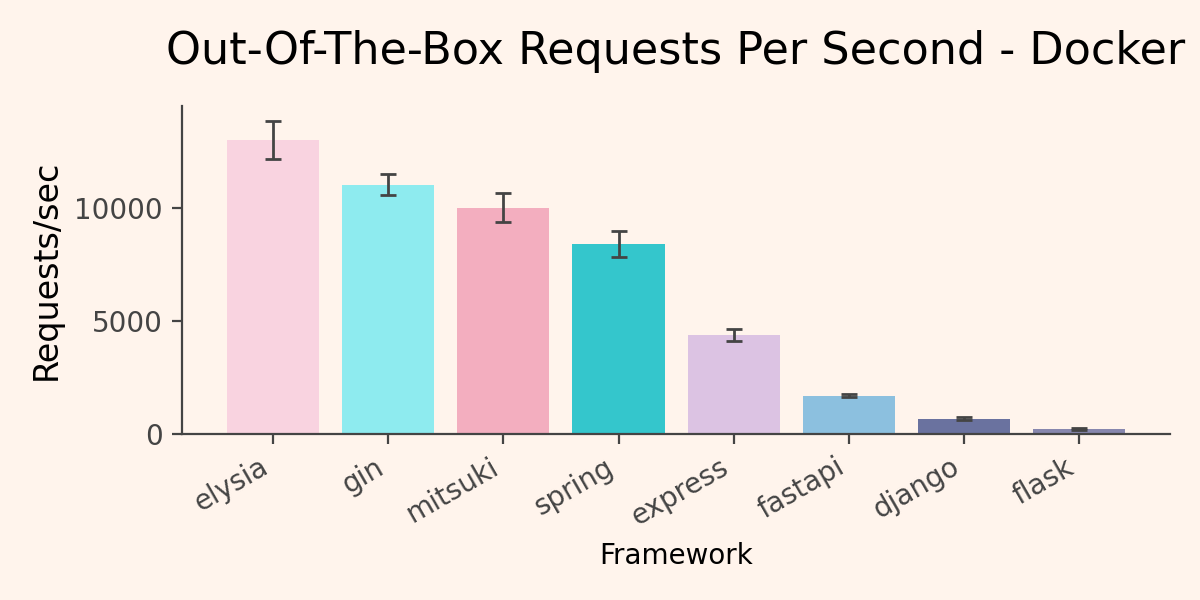
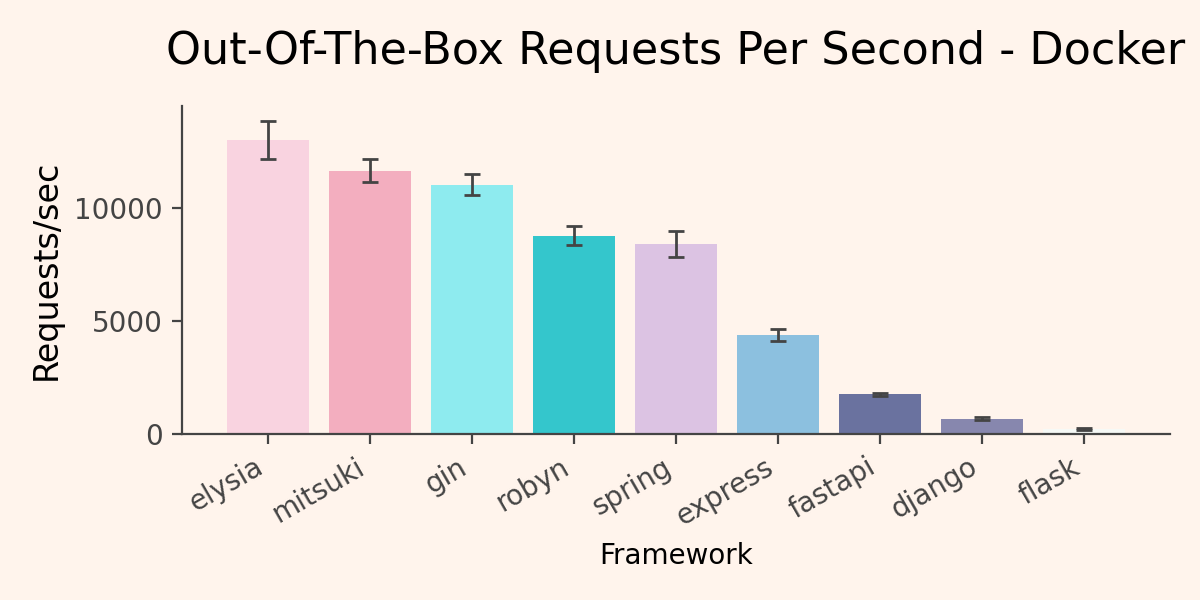
❀[BENCHMARKS] Add Robyn

diff --git a/benchmarks/generate_report.py b/benchmarks/generate_report.py
@@ -125,6 +125,7 @@ def process_results(results_dir, local=False):
         "express",
         "spring",
         "gin",
+        "robyn"
     ]
     results = []
     suffix = "-local" if local else ""

diff --git a/benchmarks/README.md b/benchmarks/README.md
@@ -24,11 +24,12 @@ Docker tends to show different speeds than running on a raw host device, due to 
 | Framework | RPS | Stdev |
 | --- | --- | --- |
 | elysia | 12982.89 | 846.43 |
+| mitsuki | 11643.86 | 516.84 |
 | gin | 11014.0 | 466.89 |
-| mitsuki | 10002.7 | 641.97 |
+| robyn | 8764.48 | 418.81 |
 | spring | 8406.71 | 569.69 |
 | express | 4374.98 | 273.37 |
-| fastapi | 1681.09 | 79.55 |
+| fastapi | 1745.22 | 65.59 |
 | django | 655.94 | 62.87 |
 | flask | 193.93 | 37.37 |
 
